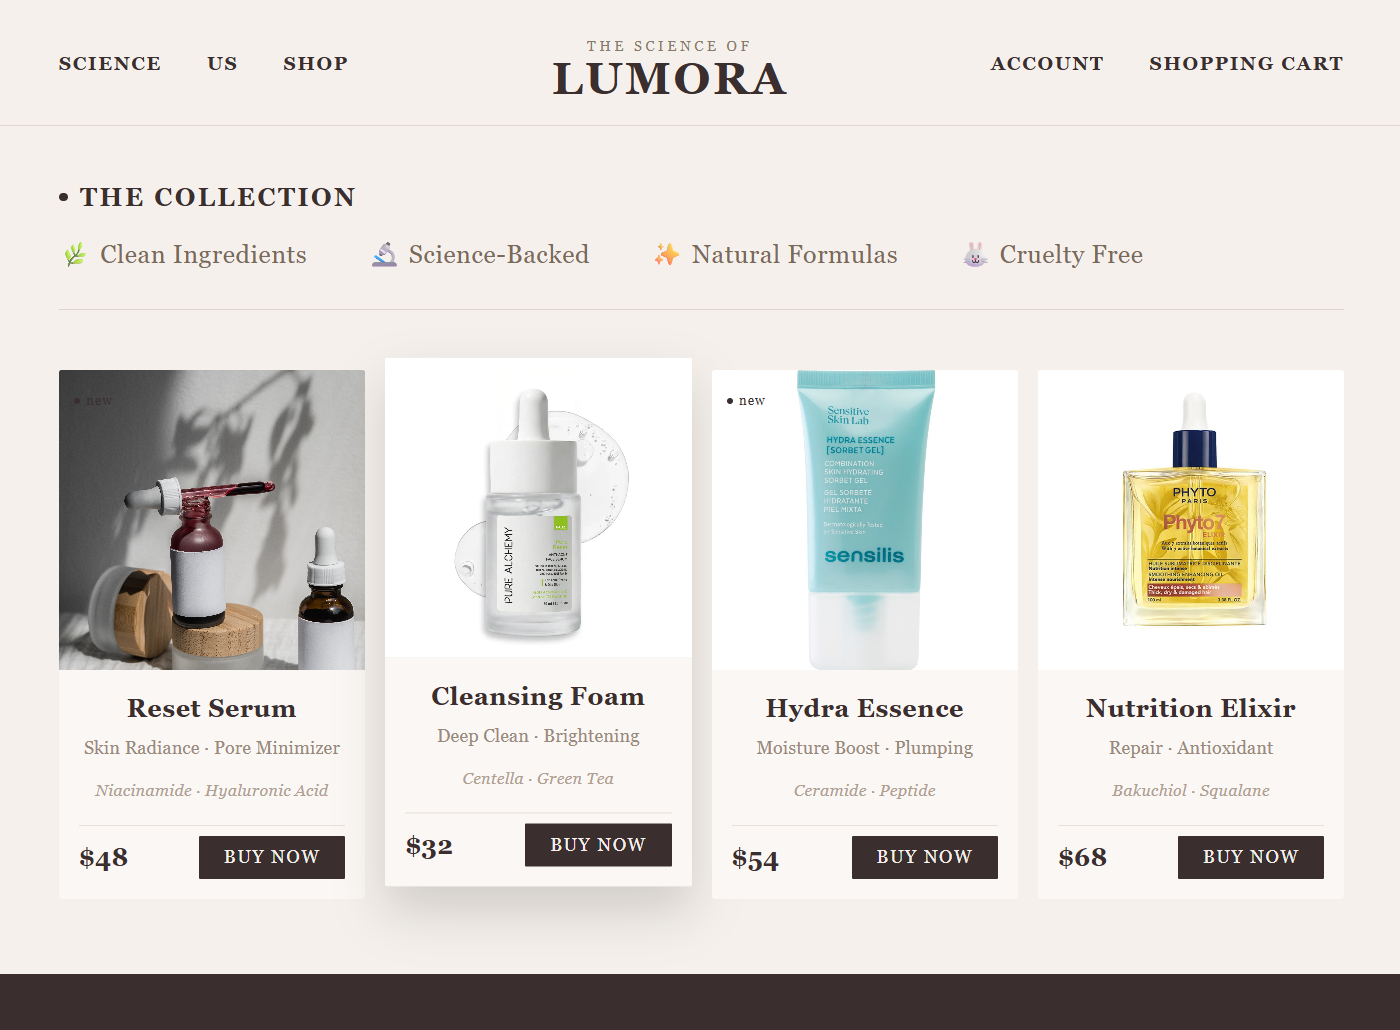
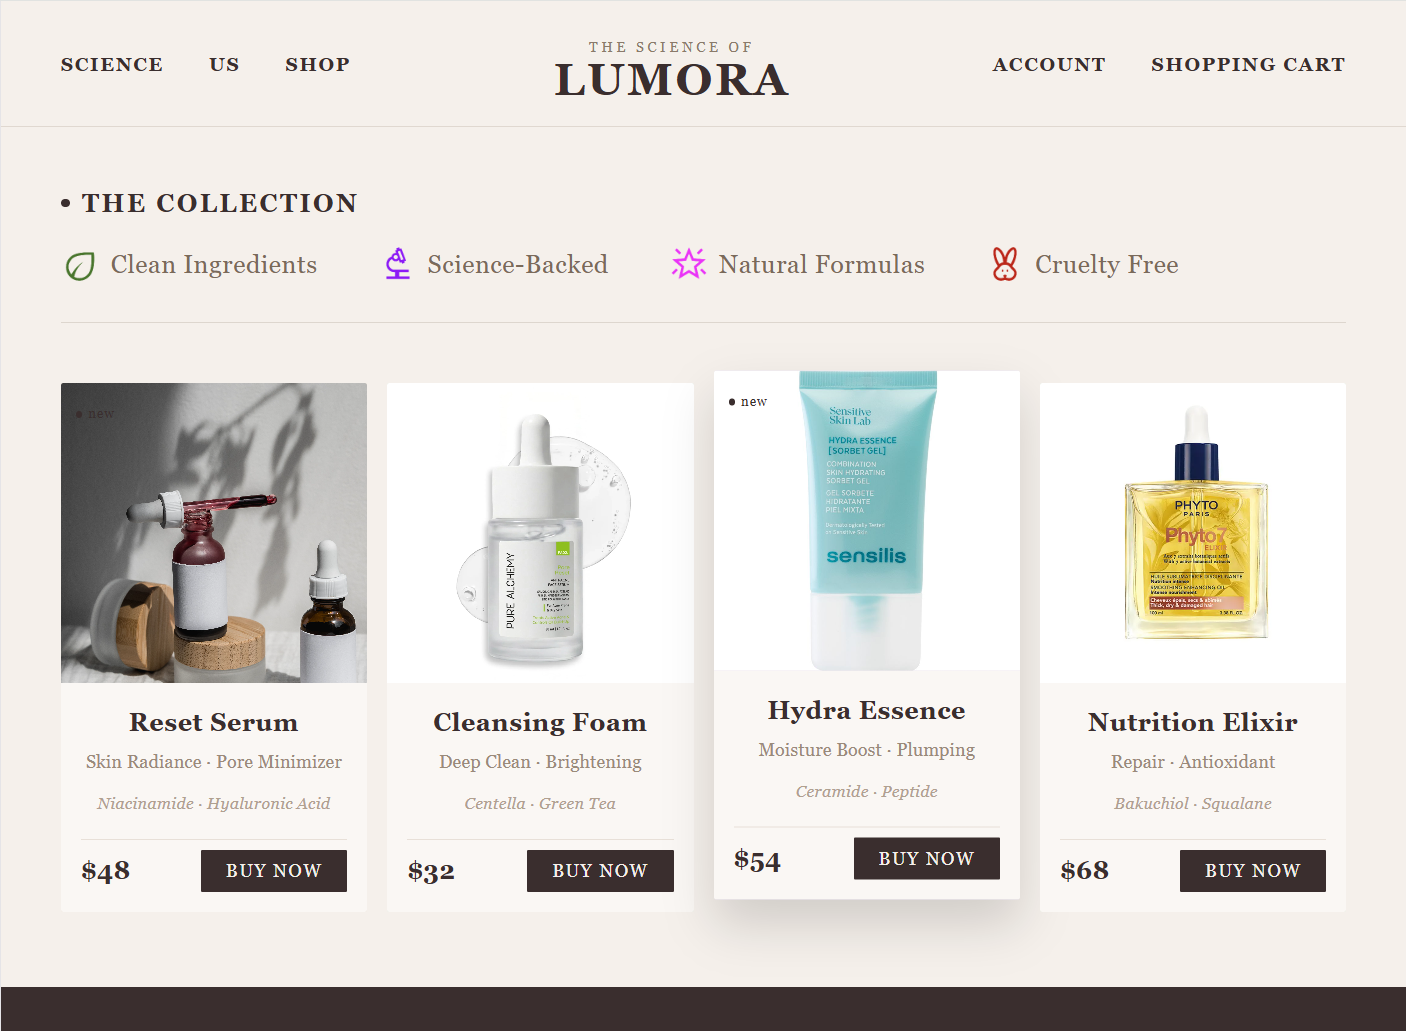
Modified README

diff --git a/src/components/component5.jsx b/src/components/component5.jsx
@@ -1,3 +1,6 @@
+import leafIcon from "./leaf1.png";
+import scienceIcon from "./science1.png";
+import bunnyIcon from "./bunny1.png";
 export function Footer() {
   const footerStyle = {
     backgroundColor: "#3a2e2e",
@@ -97,57 +100,127 @@ export function Footer() {
     gap: "10px",
   };
 
-  const pillStyle = {
-    fontSize: "13px",
-    color: "#8a7a6a",
-    border: "1px solid #5a4a3a",
-    padding: "6px 14px",
-    borderRadius: "20px",
-    letterSpacing: "0.5px",
-  };
+ const pillStyle = {
+  fontSize: "13px",
+  color: "#8a7a6a",
+  border: "1px solid #5a4a3a",
+  padding: "6px 14px",
+  borderRadius: "20px",
+  letterSpacing: "0.5px",
+  display: "flex",
+  alignItems: "center",
+  gap: "6px",
+};
 
-  return (
-    <footer style={footerStyle}>
-      <div style={topGridStyle}>
-        <div>
-          <p style={{ fontSize: "11px", letterSpacing: "3px", color: "#9a8878", textTransform: "uppercase", margin: "0 0 4px 0" }}>Beauty in</p>
-          <h3 style={logoStyle}></h3>
-          <p style={taglineStyle}>
-            Science-engineered skincare<br />for your skin's peak performance.
+  const footerIconStyle = {
+  width: "18px",
+  height: "18px",
+  objectFit: "contain",
+};
+
+ return (
+  <footer style={footerStyle}>
+    <div style={topGridStyle}>
+      <div>
+        <p
+          style={{
+            fontSize: "11px",
+            letterSpacing: "3px",
+            color: "#9a8878",
+            textTransform: "uppercase",
+            margin: "0 0 4px 0",
+          }}
+        >
+          Beauty in
+        </p>
+
+        <h3 style={logoStyle}>LUMORA</h3>
+
+        <p style={taglineStyle}>
+          Science-engineered skincare
+          <br />
+          for your skin's peak performance.
+        </p>
+
+        <p style={{ ...colTitleStyle, marginBottom: "8px" }}>
+          Newsletter
+        </p>
+
+        <div style={newsletterInputStyle}>
+          <input
+            style={inputStyle}
+            type="email"
+            placeholder="[email redacted]"
+          />
+          <button style={inputBtnStyle}>Join</button>
+        </div>
+      </div>
+
+      <div>
+        <p style={colTitleStyle}>Shop</p>
+        {["Serums", "Cleansers", "Essences", "Eye Care", "New Arrivals"].map(
+          (i) => (
+            <p key={i} style={colItemStyle}>
+              {i}
+            </p>
+          )
+        )}
+      </div>
+
+      <div>
+        <p style={colTitleStyle}>Learn</p>
+        {["Our Science", "Ingredients", "Skin Fitness", "Blog", "Reviews"].map(
+          (i) => (
+            <p key={i} style={colItemStyle}>
+              {i}
+            </p>
+          )
+        )}
+      </div>
+
+      <div>
+        <p style={colTitleStyle}>Help</p>
+        {["Account", "Orders", "Returns", "Contact Us", "FAQ"].map((i) => (
+          <p key={i} style={colItemStyle}>
+            {i}
           </p>
-          <p style={{ ...colTitleStyle, marginBottom: "8px" }}>Newsletter</p>
-          <div style={newsletterInputStyle}>
-            <input style={inputStyle} type="email" placeholder="[email redacted]" />
-            <button style={inputBtnStyle}>Join</button>
-          </div>
-        </div>
-        <div>
-          <p style={colTitleStyle}>Shop</p>
-          {["Serums", "Cleansers", "Essences", "Eye Care", "New Arrivals"].map((i) => (
-            <p key={i} style={colItemStyle}>{i}</p>
-          ))}
-        </div>
-        <div>
-          <p style={colTitleStyle}>Learn</p>
-          {["Our Science", "Ingredients", "Skin Fitness", "Blog", "Reviews"].map((i) => (
-            <p key={i} style={colItemStyle}>{i}</p>
-          ))}
-        </div>
-        <div>
-          <p style={colTitleStyle}>Help</p>
-          {["Account", "Orders", "Returns", "Contact Us", "FAQ"].map((i) => (
-            <p key={i} style={colItemStyle}>{i}</p>
-          ))}
-        </div>
+        ))}
       </div>
-      <div style={bottomStyle}>
-        <p style={copyStyle}>© 2026 Lumora. All rights reserved.</p>
-        <div style={pillsStyle}>
-          <span style={pillStyle}>🌿 Clean</span>
-          <span style={pillStyle}>🔬 Science</span>
-          <span style={pillStyle}>🐰 Cruelty Free</span>
-        </div>
+    </div>
+
+    {/* Bottom Footer */}
+    <div style={bottomStyle}>
+      <p style={copyStyle}>© 2026 Lumora. All rights reserved.</p>
+
+      <div style={pillsStyle}>
+        <span style={pillStyle}>
+          <img
+            src={leafIcon}
+            alt="Clean"
+            style={footerIconStyle}
+          />
+          Clean
+        </span>
+
+        <span style={pillStyle}>
+          <img
+            src={scienceIcon}
+            alt="Science"
+            style={footerIconStyle}
+          />
+          Science
+        </span>
+
+        <span style={pillStyle}>
+          <img
+            src={bunnyIcon}
+            alt="Cruelty Free"
+            style={footerIconStyle}
+          />
+          Cruelty Free
+        </span>
       </div>
-    </footer>
-  );
+    </div>
+  </footer>
+);
 }

diff --git a/src/components/component3.jsx b/src/components/component3.jsx
@@ -1,3 +1,7 @@
+import leafIcon from "./leaf.png";
+import scienceIcon from "./science.png";
+import sparkleIcon from "./sparkle.png";
+import bunnyIcon from "./bunny.png";
 export function CollectionHeading() {
   const sectionStyle = {
     backgroundColor: "#f5f0eb",
@@ -51,6 +55,12 @@ export function CollectionHeading() {
     letterSpacing: "0.5px",
   };
 
+  const iconStyle = {
+  width: "32px",
+  height: "32px",
+  objectFit: "contain",
+};
+
   return (
     <section style={sectionStyle}>
       <div style={rowStyle}>
@@ -58,11 +68,26 @@ export function CollectionHeading() {
         <span style={labelStyle}>The Collection</span>
       </div>
       <div style={featureRowStyle}>
-        <span style={featureStyle}>🌿 Clean Ingredients</span>
-        <span style={featureStyle}>🔬 Science-Backed</span>
-        <span style={featureStyle}>✨ Natural Formulas</span>
-        <span style={featureStyle}>🐰 Cruelty Free</span>
-      </div>
+  <span style={featureStyle}>
+    <img src={leafIcon} alt="Clean Ingredients" style={iconStyle} />
+    Clean Ingredients
+  </span>
+
+  <span style={featureStyle}>
+    <img src={scienceIcon} alt="Science-Backed" style={iconStyle} />
+    Science-Backed
+  </span>
+
+  <span style={featureStyle}>
+    <img src={sparkleIcon} alt="Natural Formulas" style={iconStyle} />
+    Natural Formulas
+  </span>
+
+  <span style={featureStyle}>
+    <img src={bunnyIcon} alt="Cruelty Free" style={iconStyle} />
+    Cruelty Free
+  </span>
+</div>
       <div style={dividerStyle}></div>
     </section>
   );

diff --git a/src/components/component2.jsx b/src/components/component2.jsx
@@ -44,7 +44,8 @@ export function HeroSection() {
     textTransform: "uppercase",
     fontFamily: "'Cormorant Garamond', Georgia, serif",
     margin: "0 0 16px 0",
-    textShadow: "0 2px 20px rgba(0,0,0,0.3)",
+    textShadow: "0 2px 20px rgba(0, 0, 0, 0.3)",
+    color: "white" 
   };
 
   const subStyle = {

diff --git a/README.md b/README.md
@@ -1,19 +1,46 @@
-# Skincare E-Commerce Website
 
-A modern skincare e-commerce website built using React and Vite.
+# ✨ Lumora – Skincare E-Commerce Website
 
-## Features
-- Responsive navigation bar
-- Hero section
-- Product showcase
-- Shopping cart interface
-- Newsletter subscription section
+A modern and elegant skincare e-commerce website built with **React** and **Vite**, designed to provide a premium beauty-shopping experience through clean layouts, luxury-inspired typography, and visually appealing product showcases.
 
-## Technologies Used
-- React
-- JavaScript
-- Vite
-- CSS (Inline Styling)
+## 📌 Project Overview
+
+Lumora is a front-end skincare e-commerce website that focuses on aesthetic design, responsive layouts, and user-friendly navigation. The website features a luxury skincare theme with carefully selected color palettes, custom product imagery, and elegant typography using Google Fonts.
+
+## 🚀 Features
+
+* Responsive Navigation Bar
+* Luxury Hero Section with Featured Model Image
+* Product Collection Showcase
+* Interactive Product Cards
+* Custom Icon-Based Feature Highlights
+* Newsletter Subscription Section
+* Modern Footer Design
+* Premium Skincare Branding
+* Hover Effects and Smooth UI Interactions
+
+## 🛠 Technologies Used
+
+* React.js
+* JavaScript (ES6+)
+* Vite
+* CSS Inline Styling
+* Google Fonts (Cormorant Garamond)
+* HTML5
+
+## 📂 Project Structure
+
+```text
+src/
+├── components/
+│   ├── Navbar.jsx
+│   ├── component2.jsx (Hero Section)
+│   ├── component3.jsx (Collection Section)
+│   ├── component4.jsx (Product Cards)
+│   └── component5.jsx (Footer)
+├── App.jsx
+└── main.jsx
+```
 
 ## Screenshots
 
@@ -29,5 +56,16 @@ A modern skincare e-commerce website built using React and Vite.
 
 ![Footer](./screenshots/footer.png)
 
+## 🎨 Design Highlights
+
+* Luxury skincare-inspired color palette
+* Elegant serif typography
+* Custom feature icons
+* Clean and minimal interface
+* Premium product presentation
+* Consistent visual branding
+
 ## Author
 Niharika Malankar
+
+Built as a React front-end project to demonstrate component-based design, modern UI development, and e-commerce website structure.